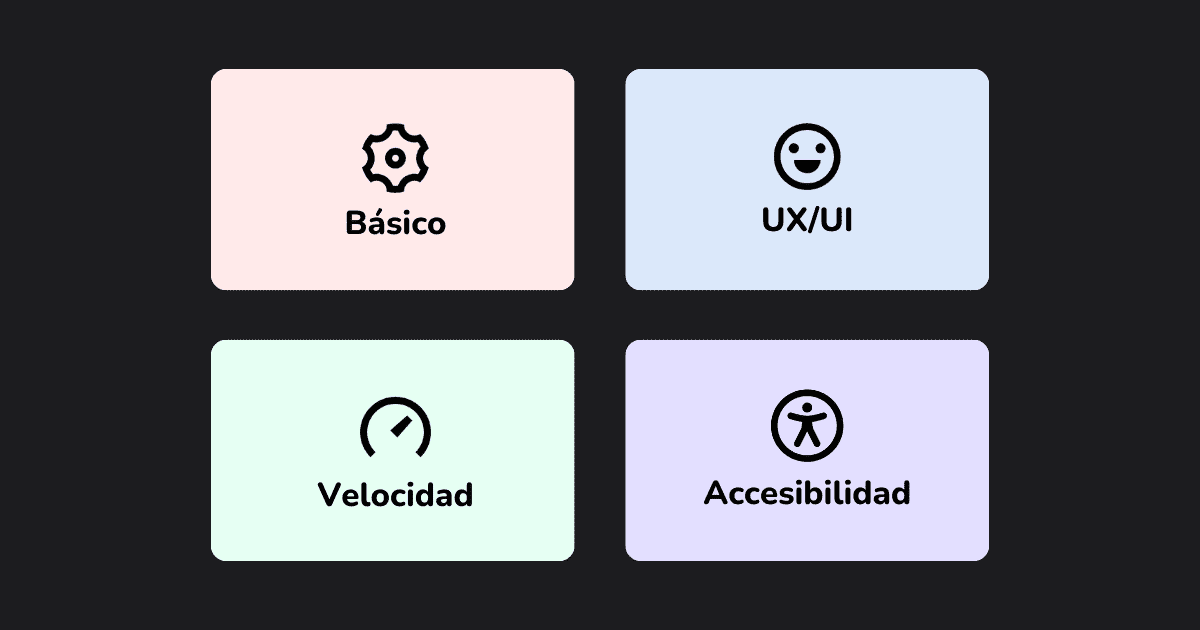
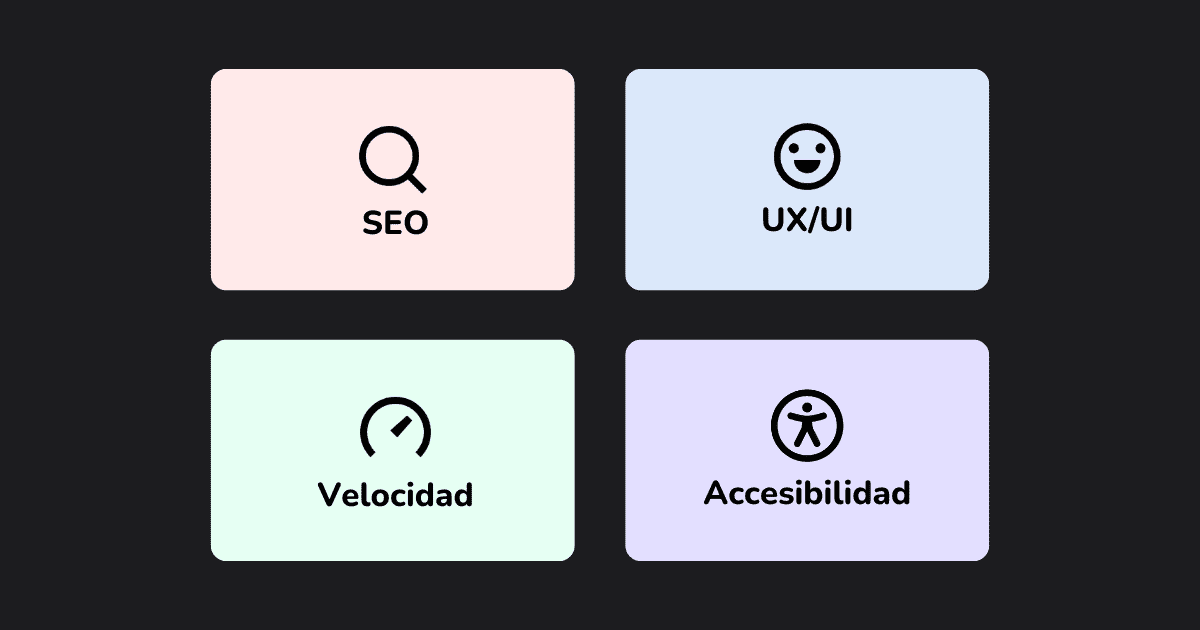
Actualizar información del archivo README

Changed region(s): [[0.2775, 0.181, 0.37, 0.3016], [0.2775, 0.3317, 0.37, 0.3921]]

diff --git a/README.md b/README.md
@@ -1,6 +1,6 @@
 # Optimizador Web: Un Recurso Integral para la Optimización de Sitios Web
 
-**Optimizador Web** es una herramienta diseñada para ayudar a los desarrolladores a cumplir con los más altos estándares en UX/UI, velocidad y accesibilidad.
+**Optimizador Web** es una herramienta diseñada para ayudar a los desarrolladores a cumplir con los más altos estándares en SEO, UX/UI, Rendimiento y Accesibilidad.
 
 Ofrece:
 
@@ -45,8 +45,8 @@ Es ideal tanto para desarrolladores novatos como para expertos que buscan mejora
 
 ## Áreas de verificación disponibles
 
-- Configuraciones básicas
-- UX/UI - Prácticas de usabilidad
+- SEO
+- UX/UI
 - Velocidad y rendimiento general
 - Accesibilidad
 
